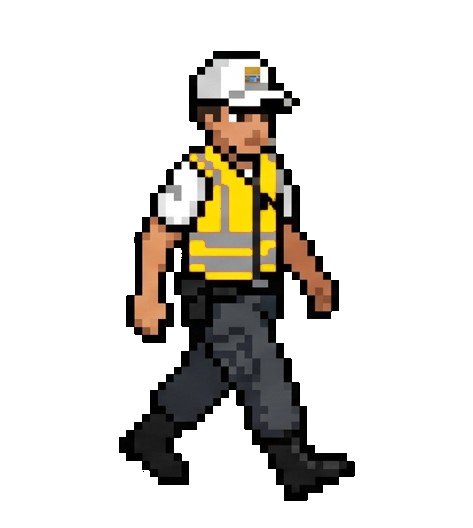
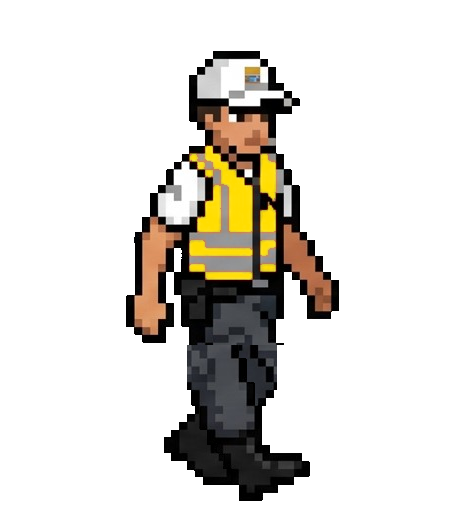
feat: guarda anda alternando as pernas
Os quadros de caminhada do guarda tinham as pernas sempre na mesma passada
(só os braços mudavam), então ele deslizava em vez de andar. Agora o ciclo
tem quatro poses: passada com a perna clara à frente (1), passagem com as
pernas se cruzando (2), passada com a perna escura à frente (3) e passagem
de volta (8, quadro novo).

Tudo feito só com camadas, sem esticar o desenho: na passada 3 cada perna
é virada na horizontal em torno do quadril e as botas, sem virar, trocam
de perna (a ponta continua para a frente); nas passagens as duas pernas
são só deslocadas uma em direção à outra. O tutorial usa o mesmo ciclo.

Changed region(s): [[0.2368, 0.6364, 0.7696, 0.9697]]

diff --git a/src/features/TravessiaSegura/components/AgenteAnimado.jsx b/src/features/TravessiaSegura/components/AgenteAnimado.jsx
@@ -4,6 +4,7 @@ import agente2 from '../../../assets/agente_2.png';
 import agente3 from '../../../assets/agente_3.png';
 import agente6 from '../../../assets/agente_6.png';
 import agente7 from '../../../assets/agente_7.png';
+import agente8 from '../../../assets/agente_8.png';
 
 // Os quadros são IMPORTADOS, não montados como `/agente_${frame}.png`.
 //
@@ -16,7 +17,7 @@ import agente7 from '../../../assets/agente_7.png';
 // O Vite não reescreve caminho montado dentro de string; ele só resolve o
 // que passa por import. Importando, cada quadro ganha URL com hash e
 // acompanha a base do build, seja qual for a pasta onde o jogo esteja.
-const QUADROS = { 1: agente1, 2: agente2, 3: agente3, 6: agente6, 7: agente7 };
+const QUADROS = { 1: agente1, 2: agente2, 3: agente3, 6: agente6, 7: agente7, 8: agente8 };
 
 // Largura aproximada do sprite parado (altura 95px) e folga até o carro,
 // em px "locais" (coordenadas de antes da escala da arena). A folga
@@ -35,11 +36,14 @@ const POSICAO_PADRAO = 100; // usada se não der pra medir o carro (ex: ele saiu
 const MARGEM_DA_ARENA = 10;
 const PASSO = 15;
 
-// Ciclo de caminhada em "ping-pong": 1 (contato, perna da frente
-// plantada) -> 2 (passagem, pernas cruzando) -> 3 (contato oposto) -> 2
-// (passagem de novo) -> repete. Evita o salto visual de pular direto de
-// um contato pro outro sem passar pela pose de transição no meio.
-const SEQUENCIA_CAMINHADA = [1, 2, 3, 2];
+// Ciclo de caminhada: 1 (passada, perna clara à frente) -> 2 (passagem, as
+// pernas se cruzando embaixo do corpo) -> 3 (passada com a perna escura à
+// frente) -> 8 (passagem de volta) -> repete. Tudo feito só com camadas, sem
+// esticar o desenho: na passada 3 cada perna é virada na horizontal em torno
+// do quadril e as botas, sem virar, trocam de perna (a ponta continua para a
+// frente); nas passagens as duas pernas só são deslocadas uma em direção à
+// outra. (4 e 5 são poses de frente, sem uso aqui.)
+const SEQUENCIA_CAMINHADA = [1, 2, 3, 8];
 
 // Guarda que aparece, multa o carro parado sobre a faixa e vai embora.
 export default function AgenteAnimado({ onComplete, laneIndex, vehicleElsRef, arenaRef, larguraDaArena = 600 }) {

diff --git a/src/features/TravessiaSegura/components/TutorialModal.jsx b/src/features/TravessiaSegura/components/TutorialModal.jsx
@@ -12,6 +12,7 @@ import agente2 from '../../../assets/agente_2.png';
 import agente3 from '../../../assets/agente_3.png';
 import agente6 from '../../../assets/agente_6.png';
 import agente7 from '../../../assets/agente_7.png';
+import agente8 from '../../../assets/agente_8.png';
 import TrafficLight, { ALTURA_DO_SEMAFORO } from './TrafficLight';
 import { CheckIcon, GraveWarningIcon, HeartIcon, HourglassIcon, WarningIcon } from './HudIcons';
 import { BONUS_CHAMAR_GUARDA } from '../hooks/useGuardSystem';
@@ -21,7 +22,7 @@ const CARROS = { azul: carroAzul, branco: carroBranco, verde: carroVerde, vinho:
 // Os mesmos ciclos do Pedestrian e do AgenteAnimado, mas contados pelo relógio
 // da cena: assim o passo do boneco nunca se desencontra do deslocamento dele.
 const CAMINHADA = [bonecoAndando1, bonecoAndando2, bonecoAndando3, bonecoAndando2];
-const GUARDA_ANDANDO = [agente1, agente2, agente3, agente2];
+const GUARDA_ANDANDO = [agente1, agente2, agente3, agente8];
 const GUARDA_MULTANDO = [agente6, agente7];
 const BASE_DO_SEMAFORO = 335;
 
